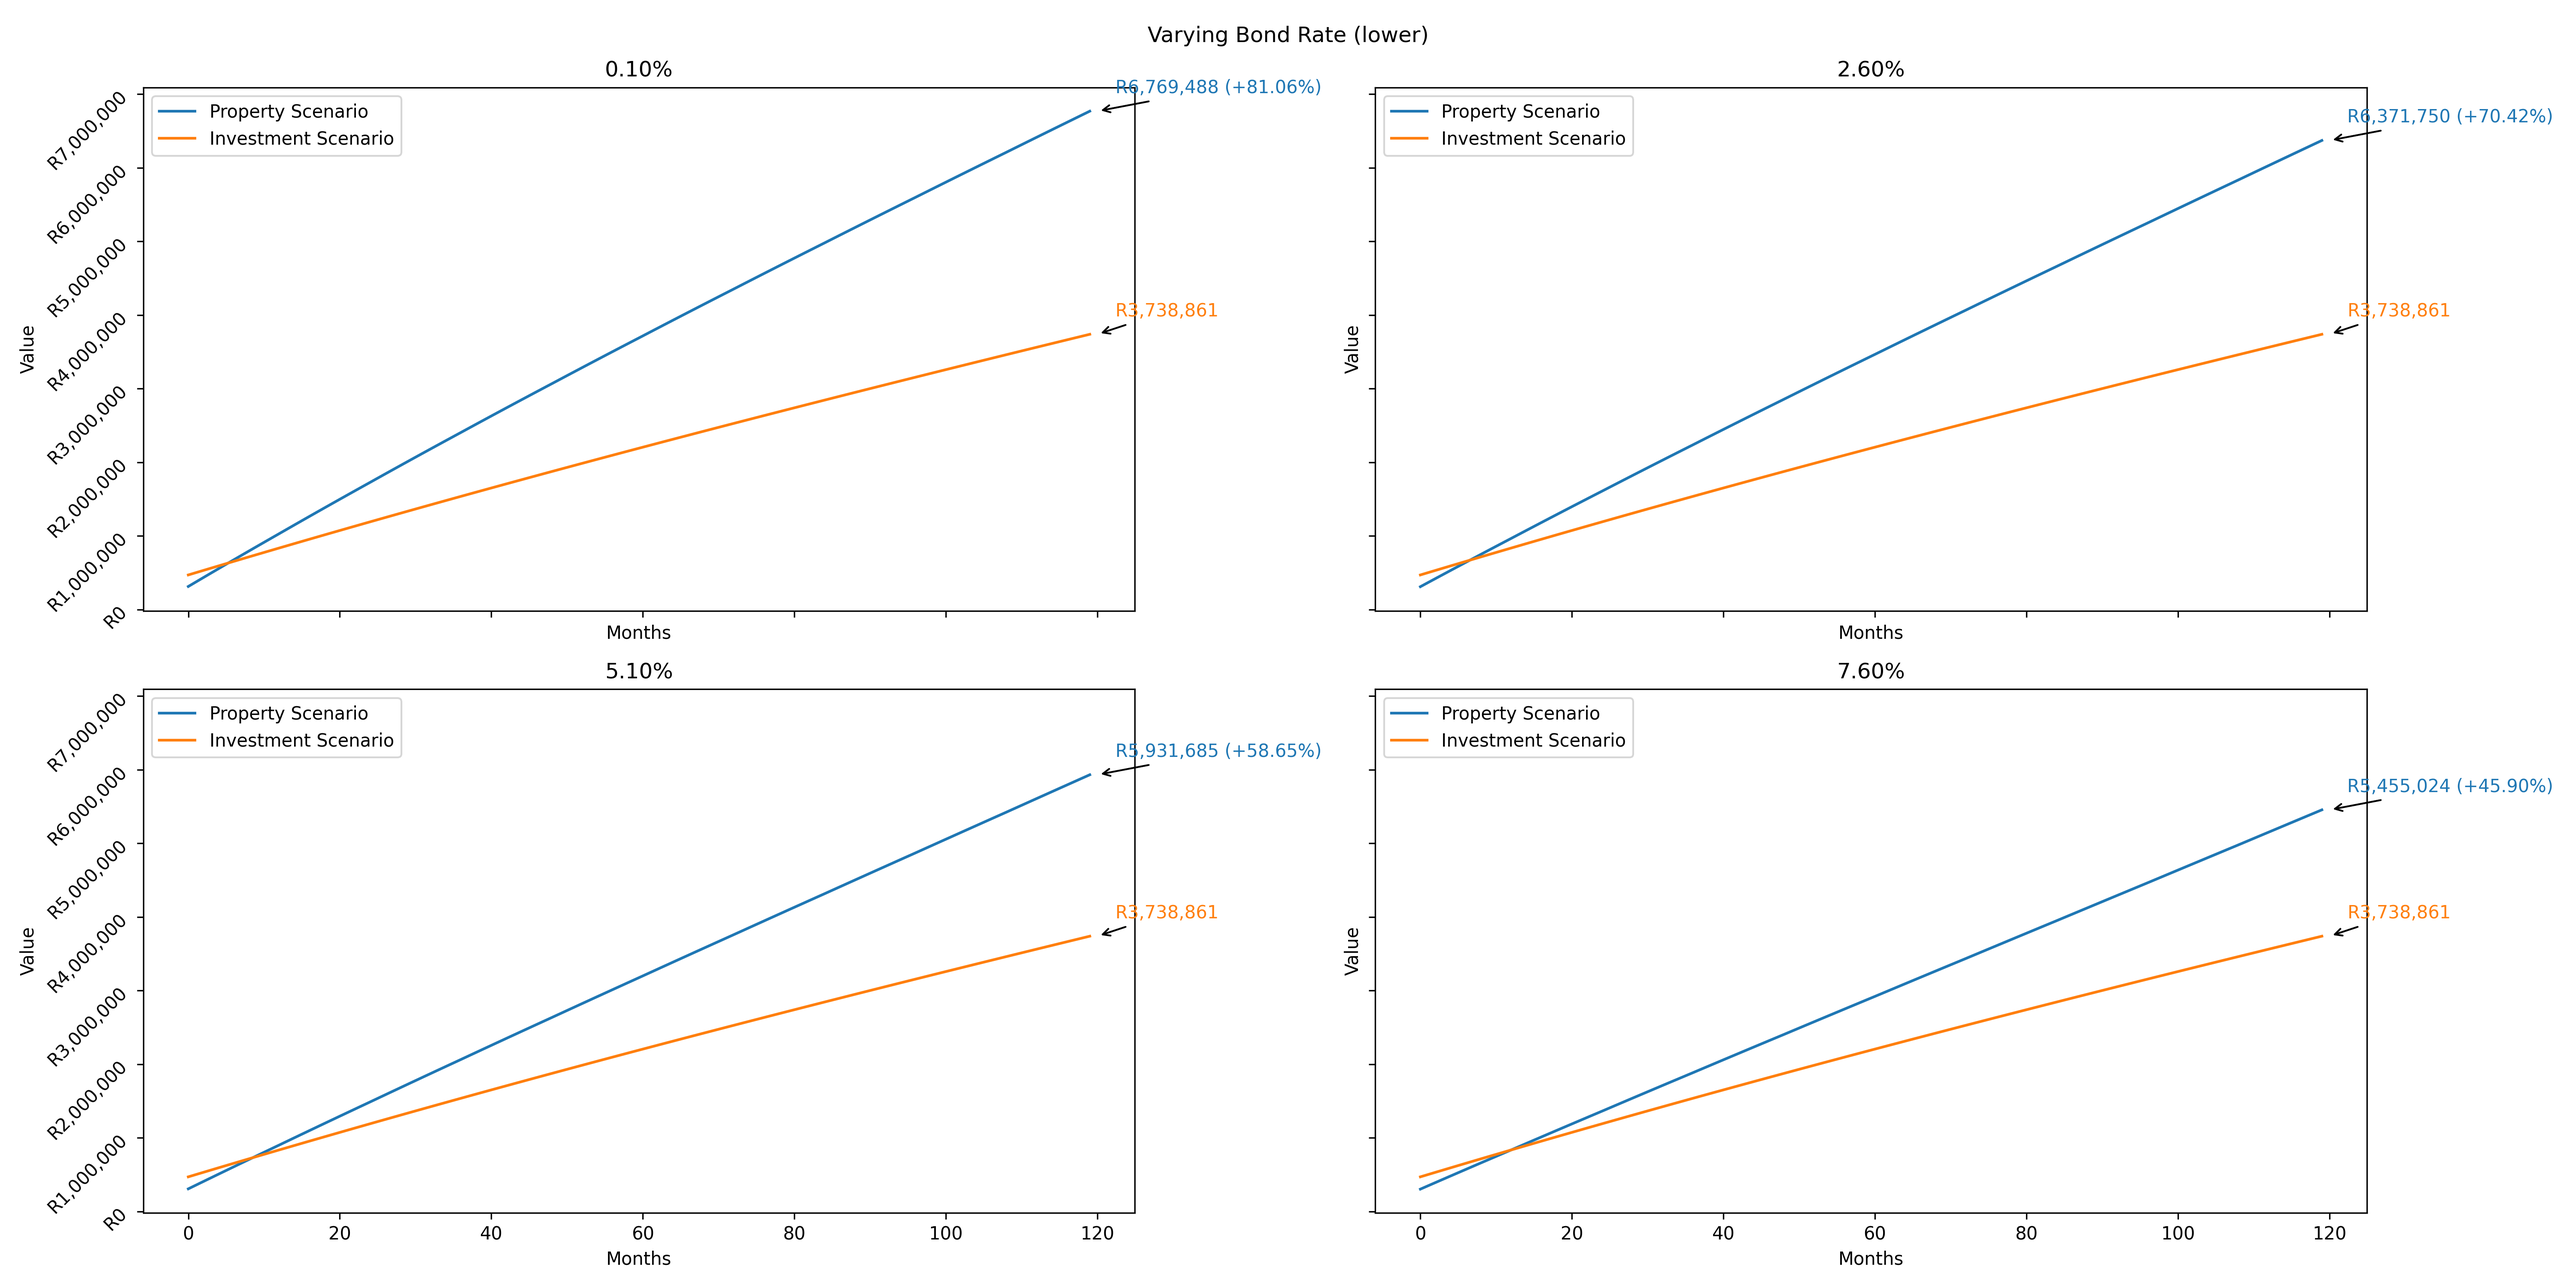
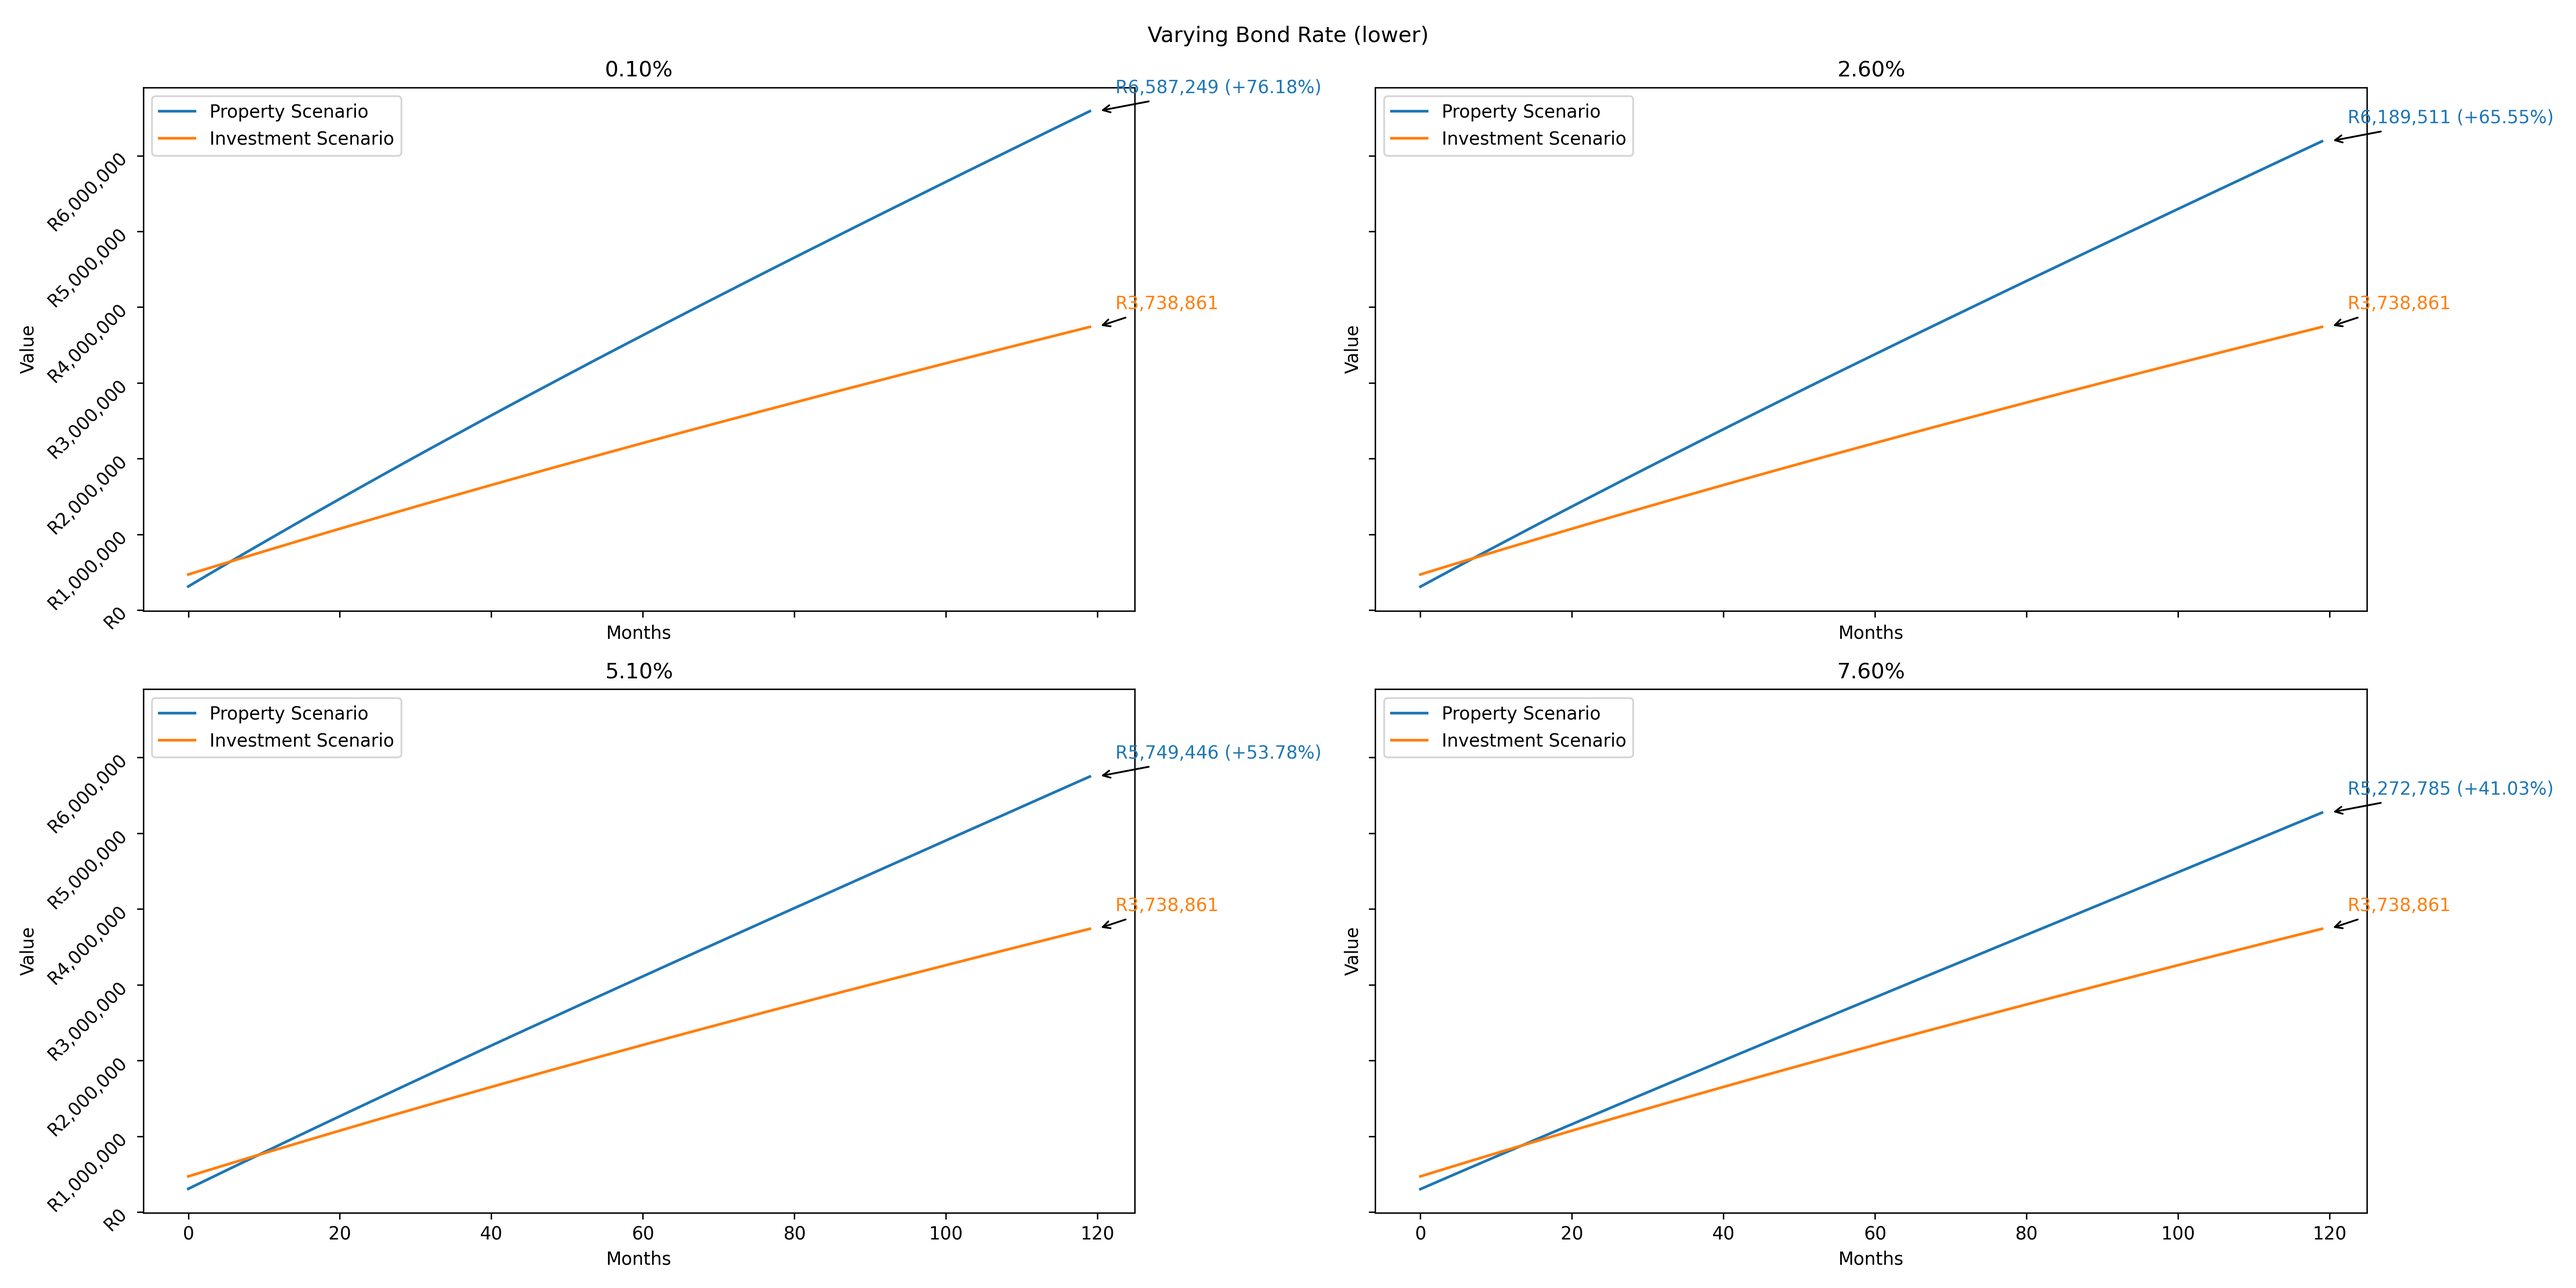
added a rental management percentage fee assumption

diff --git a/forecast/forecast.py b/forecast/forecast.py
@@ -1,6 +1,6 @@
 import logging
 from dataclasses import dataclass
-from typing import List
+from typing import List, Union
 
 logger = logging.getLogger(__name__)
 
@@ -27,7 +27,6 @@ class InvestmentAssumptions:
 
     It includes parameters for property investment and stock market investment.
 
-    TODO annual 10% agent fees for rental
     TODO escalation for income surplus?
 
     :param income_surplus: Monthly income surplus available for investment.
@@ -48,6 +47,8 @@ class InvestmentAssumptions:
     :param rental_escalation_rate: Annual escalation rate for rental.
     :param property_expenses_escalation_rate: Annual escalation rate for property expenses.
     :param inflation_rate: The annual inflation rate used to calculate real values.
+    :param rental_management_percentage_fee: The (optional) percentage of the coming year's
+        total rental income charged by the agent for procurement and management
     """
 
     income_surplus: float
@@ -68,6 +69,7 @@ class InvestmentAssumptions:
     rental_escalation_rate: float
     property_expenses_escalation_rate: float
     inflation_rate: float
+    rental_management_percentage_fee: Union[float, None] = None
 
 
 def calculate_bond_repayment(principal: float, r: float, n: int) -> float:
@@ -135,9 +137,12 @@ def forecast_investment_values(
     )
     property_costs = assumptions.transfer_duty + assumptions.lawyer_fees
     monthly_rental_income = assumptions.monthly_rental_income
+    net_monthly_rental_income = _calculate_net_monthly_rental_income(
+        monthly_rental_income, assumptions.rental_management_percentage_fee
+    )
     monthly_investment_after_expenses = (
         assumptions.income_surplus
-        + monthly_rental_income
+        + net_monthly_rental_income
         - bond_repayment
         - monthly_property_expenses
     )
@@ -207,11 +212,14 @@ def forecast_investment_values(
                 1 + assumptions.property_expenses_escalation_rate
             )
             monthly_rental_income *= 1 + assumptions.rental_escalation_rate
+            net_monthly_rental_income = _calculate_net_monthly_rental_income(
+                monthly_rental_income, assumptions.rental_management_percentage_fee
+            )
 
             # Recalculate monthly investment after expenses with updated property expenses and rental income
             monthly_investment_after_expenses = (
                 assumptions.income_surplus
-                + monthly_rental_income
+                + net_monthly_rental_income
                 - bond_repayment
                 - monthly_property_expenses
             )
@@ -240,3 +248,14 @@ def forecast_investment_values(
         property_values=property_total_value_real,
         investment_values=investment_total_value_real,
     )
+
+
+def _calculate_net_monthly_rental_income(
+    monthly_rental_income: float, rental_management_percentage_fee: Union[float, None]
+) -> float:
+    if rental_management_percentage_fee is not None:
+        monthly_management_fee = (
+            rental_management_percentage_fee * monthly_rental_income
+        )
+        monthly_rental_income -= monthly_management_fee
+    return monthly_rental_income

diff --git a/forecast/plot.py b/forecast/plot.py
@@ -98,7 +98,7 @@ def plot_forecast(
     assumptions_text = "\n".join(
         [
             f"{key}: {format_rate(value)}"
-            if "rate" in key
+            if "rate" in key or "percentage" in key
             else f"{key}: {format_rand_value(value)}"
             if "term" not in key and "years" not in key
             else f"{key}: {value} years"

diff --git a/forecast/main.py b/forecast/main.py
@@ -55,6 +55,7 @@ if __name__ == "__main__":
         rental_escalation_rate=0.05,
         property_expenses_escalation_rate=0.05,
         inflation_rate=0.06,
+        rental_management_percentage_fee=0.1,
     )
     assumptions = InvestmentAssumptions(**kwargs)
     forecast = forecast_investment_values(assumptions, label="Baseline")

diff --git a/README.md b/README.md
@@ -39,6 +39,7 @@ The package uses a set of assumptions to model the investment scenarios. These a
 - **Rental Escalation Rate**: The annual escalation rate for rental.
 - **Property Expenses Escalation Rate**: The annual escalation rate for property expenses.
 - **Inflation rate**: Assumed annual inflation rate used to calculate the real value of investments.
+- **Rental management percentage fee**: The (optional) percentage of the coming year's total rental income charged by the agent for procurement and management.
 
 ## Scenarios Compared
 
